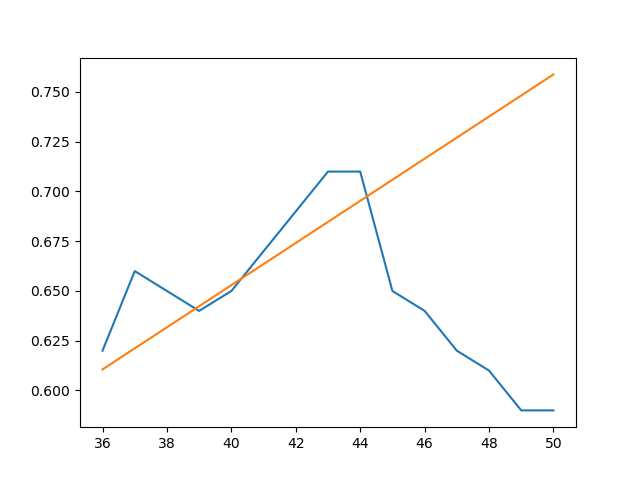
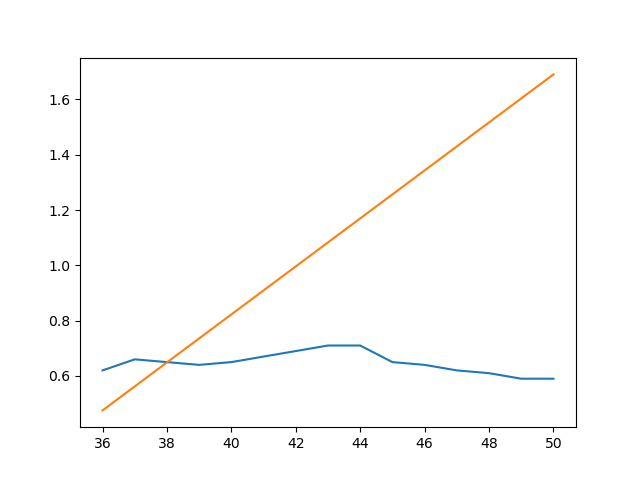
function for results, lots of ubgrades

diff --git a/Extrapolation/Extrapolation/Extrapolation.cpp b/Extrapolation/Extrapolation/Extrapolation.cpp
@@ -5,6 +5,7 @@
 #include "mnk_gradient.h"
 #include "exp_smoothing.h"
 #include "linear_extrapolate.h"
+#include "middle_extrapolate.h"
 #include "utils.h"
 
 
@@ -39,10 +40,9 @@ int main()
 
         auto duration1 = std::chrono::duration_cast<std::chrono::microseconds>(stop1 - start1);
 
-        std::cout << "LSE REG working: " << duration1.count() << " microseconds" << std::endl;
-        std::cout << "mean absolute error in file " << name << ": " << mae(y_test, prediction) << std::endl;
-        std::cout << "r2 score in file " << name << ": " << r2_score(y_test, prediction) << std::endl;
-        std::cout << "SMAPE in file " << name << ": " << SMAPE(y_test, prediction) << "%" << std::endl << std::endl;
+        std::cout << "LSE REG working:" << std::endl;
+        
+        print_results(duration1.count(), name, y_test, prediction);
 
         //write_file("data/" + name + "_test", x_test, y_test, prediction);
 
@@ -56,25 +56,20 @@ int main()
 
         auto duration2 = std::chrono::duration_cast<std::chrono::microseconds>(stop2 - start2);
 
-        std::cout << "LSE GRAD working: " << duration2.count() << " microseconds" << std::endl;
-        std::cout << "mean absolute error in file " << name << ": " << mae(y_test, prediction) << std::endl;
-        std::cout << "r2 score in file " << name << ": " << r2_score(y_test, prediction) << std::endl;
-        std::cout << "SMAPE in file " << name << ": " << SMAPE(y_test, prediction) << "%" << std::endl << std::endl;
-
+        std::cout << "LSE GD:" << std::endl;
+        print_results(duration2.count(), name, y_test, prediction);
         //write_file("data/" + name + "_test", x_test, y_test, prediction);
 
-         //EXP_SMOOTHING
+
+        //EXP_SMOOTHING
         auto start3 = std::chrono::high_resolution_clock::now();
         prediction = exponential_smoothing(x_train, y_train, x_test, 0.85);
         auto stop3 = std::chrono::high_resolution_clock::now();
 
         auto duration3 = std::chrono::duration_cast<std::chrono::microseconds>(stop3- start3);
 
-        std::cout << "EXP SMOOTHING working: " << duration3.count() << " microseconds" << std::endl;
-        std::cout << "mean absolute error in file " << name << ": " << mae(y_test, prediction) << std::endl;
-        std::cout << "r2 score in file " << name << ": " << r2_score(y_test, prediction) << std::endl;
-        std::cout << "SMAPE in file " << name << ": " << SMAPE(y_test, prediction) << "%" << std::endl << std::endl;
-
+        std::cout << "EXP SMOOTHING working:" << std::endl;
+        print_results(duration3.count(), name, y_test, prediction);
         //write_file("data/" + name + "_test", x_test, y_test, prediction);
 
 
@@ -86,13 +81,25 @@ int main()
 
         auto duration4 = std::chrono::duration_cast<std::chrono::microseconds>(stop4 - start4);
 
-        std::cout << "LINEAR EXT working: " << duration4.count() << " microseconds" << std::endl;
-        std::cout << "mean absolute error in file " << name << ": " << mae(y_test, prediction) << std::endl;
-        std::cout << "r2 score in file " << name << ": " << r2_score(y_test, prediction) << std::endl;
-        std::cout << "SMAPE in file " << name << ": " << SMAPE(y_test, prediction) << "%" << std::endl << std::endl;
+        std::cout << "LINEAR EXT working:" << std::endl;
+        print_results(duration4.count(), name, y_test, prediction);
+        //write_file("data/" + name + "_test", x_test, y_test, prediction);
 
+
+        // MIDDLE EXT
+
+        auto start5 = std::chrono::high_resolution_clock::now();
+        prediction = middle_extrapolate(x_train, y_train, x_test);
+        auto stop5 = std::chrono::high_resolution_clock::now();
+
+        auto duration5 = std::chrono::duration_cast<std::chrono::microseconds>(stop5 - start5);
+
+        std::cout << "MIDDLE EXT working: " << std::endl;
+        print_results(duration5.count(), name, y_test, prediction);
         write_file("data/" + name + "_test", x_test, y_test, prediction);
     }
 
     return 0;
 }
+
+

diff --git a/Extrapolation/Extrapolation/middle_extrapolate.cpp b/Extrapolation/Extrapolation/middle_extrapolate.cpp
@@ -1,0 +1,38 @@
+#include <iostream>
+#include <vector>
+#include <cmath>
+using namespace std;
+std::vector<double> middle_extrapolate(std::vector<double> X, std::vector<double> Y, std::vector<double> x_predict)
+{
+    double diff_sum = 0;
+    for (size_t i = 0; i < X.size(); ++i) // определяем среднее значение уровней ряда
+    {
+        diff_sum += Y[i];
+    }
+
+    const double last_x = X.back();
+    const double last_y = Y.back();
+
+    const double N = last_x - X[0];
+
+    const double y_med = diff_sum / N; // полученное среднее значение уровней ряда
+
+    double delta = 0;
+
+    for (size_t i = 0; i < X.size(); ++i) // ищем среднеквадратическое отклонение
+    {
+        delta += (Y[i] - y_med) * (Y[i] - y_med);
+    }
+
+    delta = std::sqrt(delta / N); // полученное среднеквадратическое отклонение
+
+    std::vector<double> result;
+
+    for (const double& x : x_predict) // вычисляем прогнозируемые значения
+    {
+        result.push_back(delta * (x - last_x) + y_med);
+    }
+
+    return result;
+
+}

diff --git a/Extrapolation/Extrapolation/utils.cpp b/Extrapolation/Extrapolation/utils.cpp
@@ -141,3 +141,11 @@ std::pair<std::vector<double>, std::vector<double>> split_vector(std::vector<dou
 
     return std::make_pair(down, up);
 }
+
+
+void print_results(int time, std::string name, std::vector<double> y_test, std::vector<double> prediction) {
+    std::cout << "Working: " << time << " microseconds" << std::endl;
+    std::cout << "Mean absolute error in file " << name << ": " << mae(y_test, prediction) << std::endl;
+    std::cout << "r2 score in file " << name << ": " << r2_score(y_test, prediction) << std::endl;
+    std::cout << "SMAPE in file " << name << ": " << SMAPE(y_test, prediction) << "%" << std::endl << std::endl;
+}

diff --git a/Extrapolation/Extrapolation/utils.h b/Extrapolation/Extrapolation/utils.h
@@ -7,6 +7,7 @@
 #include <vector>
 #include <string>
 #include <fstream>
+#include <chrono>
 
 
 
@@ -23,3 +24,5 @@ std::pair<std::vector<double>, std::vector<double>> read_file(std::string file_p
 void write_file(std::string file_path, std::vector<double> x_test, std::vector<double> y_test, std::vector<double> prediction);
 
 std::pair<std::vector<double>, std::vector<double>> split_vector(std::vector<double> vect, double split);
+
+void print_results(int time, std::string name, std::vector<double> y_test, std::vector<double> prediction);
